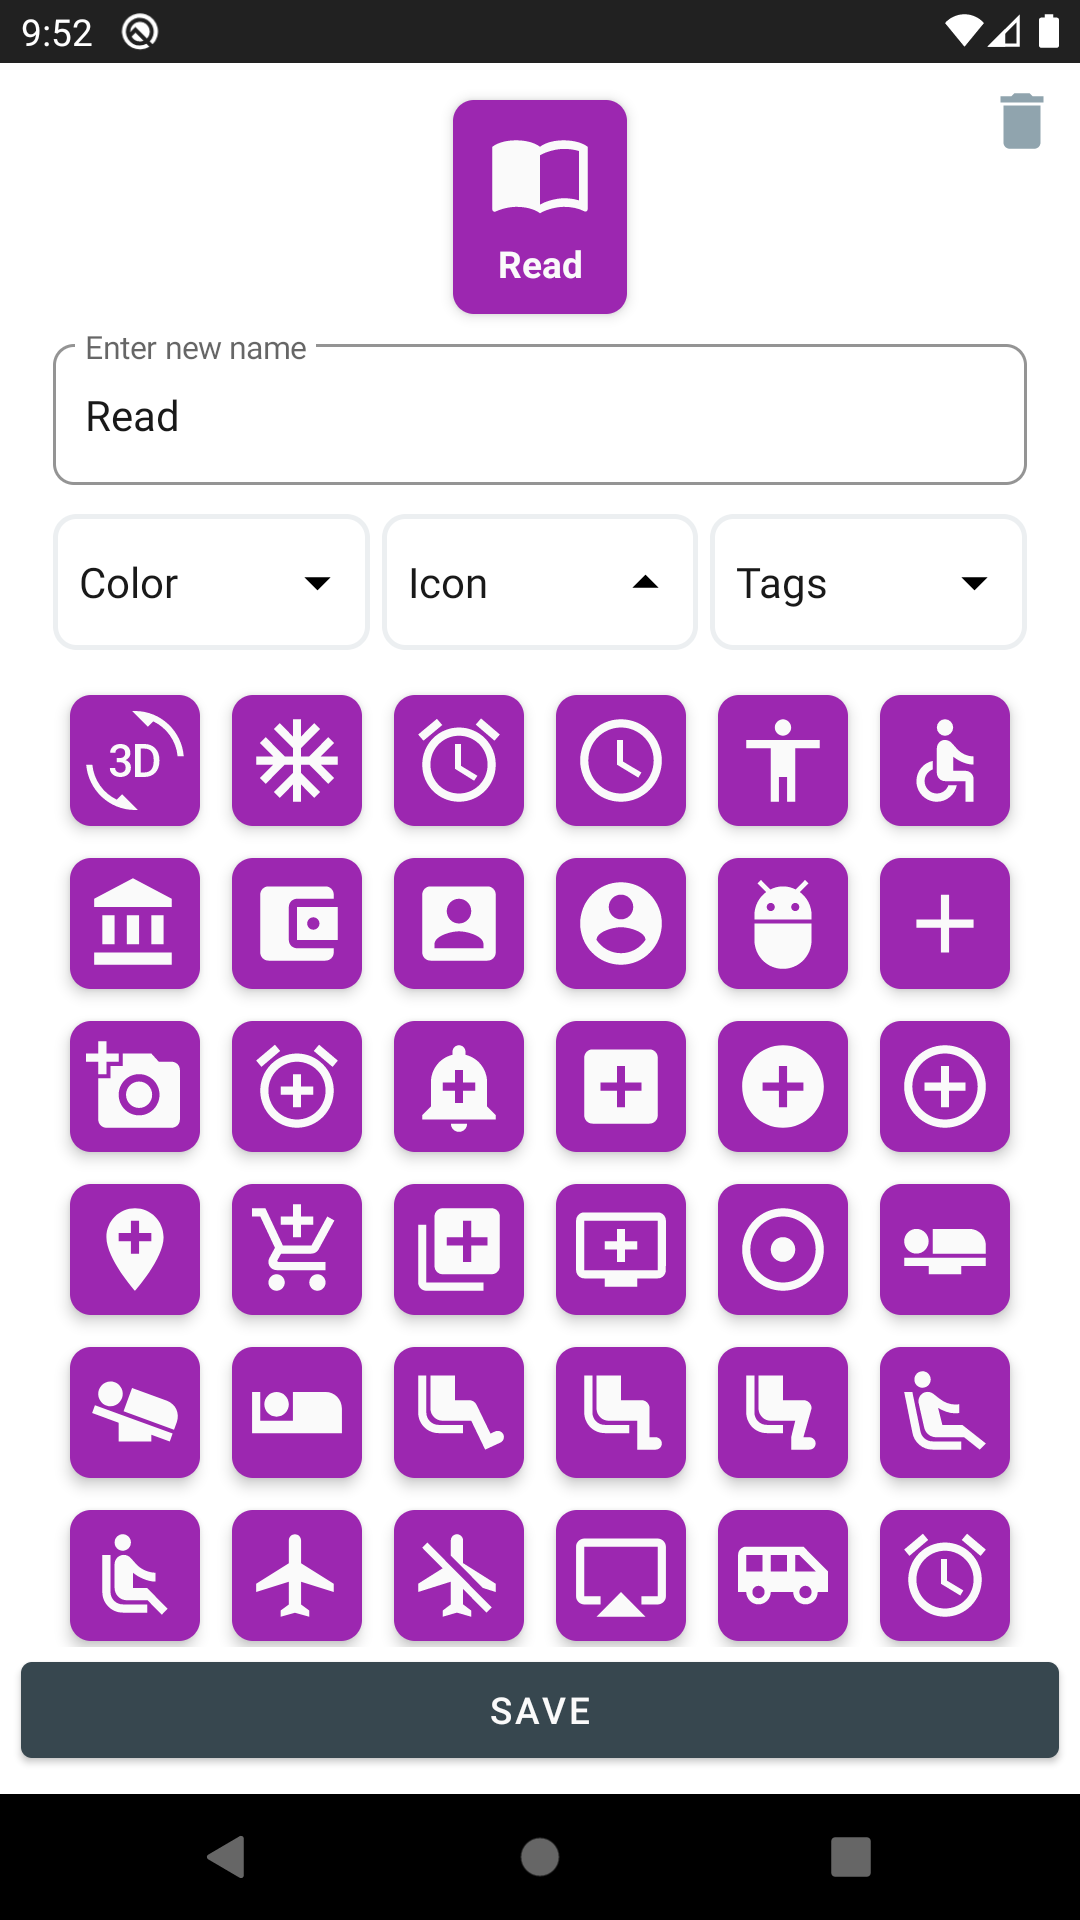
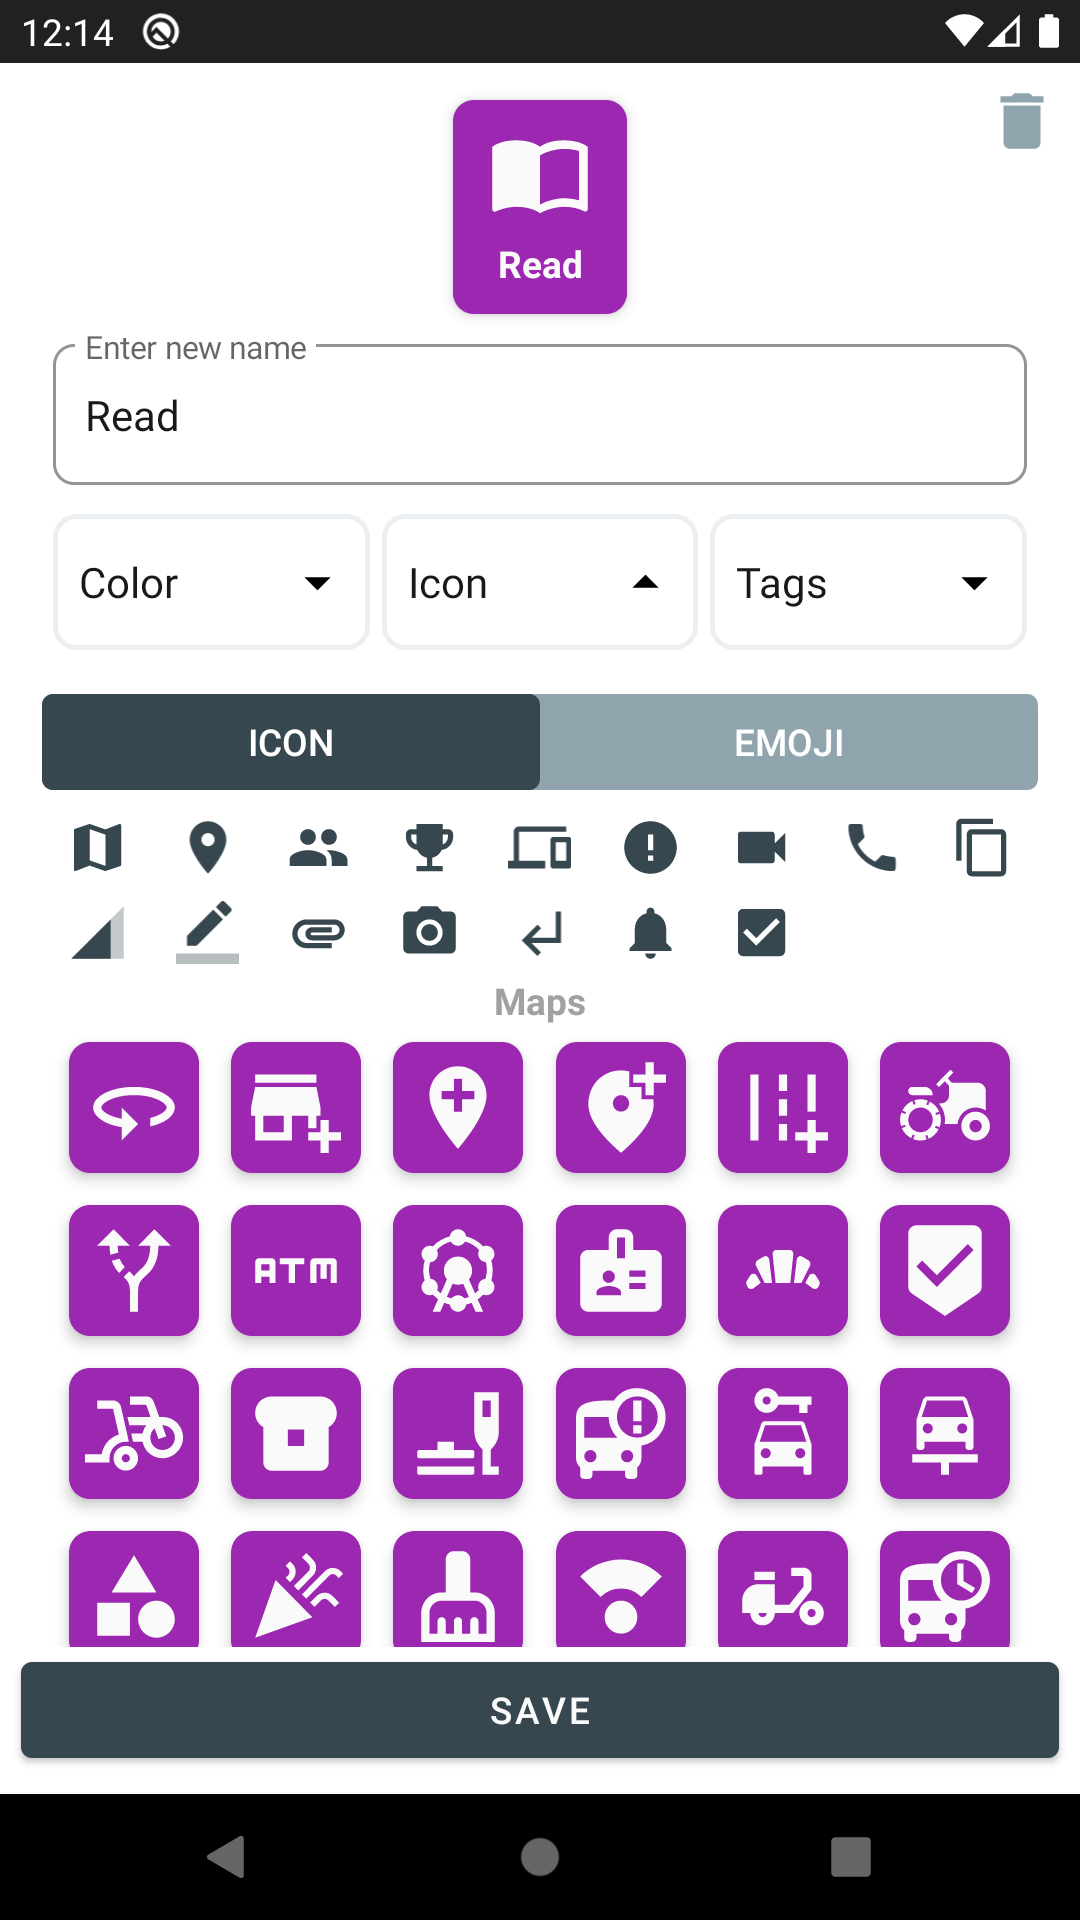
update screens

Changed region(s): [[0.0306, 0.3438, 0.9778, 0.875], [0.0306, 0.0, 0.1833, 0.0312]]

diff --git a/README.md b/README.md
@@ -15,6 +15,8 @@ Simple app that helps track how much time you spend on all the useless activitie
 [![change_record_type_thumb]][change_record_type]
 [![change_record_type_color_thumb]][change_record_type_color]
 [![change_record_type_icon_thumb]][change_record_type_icon]
+[![change_record_type_emoji_thumb]][change_record_type_emoji]
+[![change_record_type_emoji_selection_thumb]][change_record_type_emoji_selection]
 [![change_record_type_tag_thumb]][change_record_type_tag]
 <br>
 
@@ -145,6 +147,7 @@ Simple app that helps track how much time you spend on all the useless activitie
 - Dark mode
 - UI tests
 - CI with github actions
+- Emojis with EmojiCompat
 
 [change_record_thumb]: dev_files/screens/change_record_thumb.png
 [change_record]: dev_files/screens/change_record.png
@@ -161,6 +164,10 @@ Simple app that helps track how much time you spend on all the useless activitie
 [change_record_type_color]: dev_files/screens/change_record_type_color.png
 [change_record_type_icon_thumb]: dev_files/screens/change_record_type_icon_thumb.png
 [change_record_type_icon]: dev_files/screens/change_record_type_icon.png
+[change_record_type_emoji_thumb]: dev_files/screens/change_record_type_emoji_thumb.png
+[change_record_type_emoji]: dev_files/screens/change_record_type_emoji.png
+[change_record_type_emoji_selection_thumb]: dev_files/screens/change_record_type_emoji_selection_thumb.png
+[change_record_type_emoji_selection]: dev_files/screens/change_record_type_emoji_selection.png
 [change_record_type_tag_thumb]: dev_files/screens/change_record_type_tag_thumb.png
 [change_record_type_tag]: dev_files/screens/change_record_type_tag.png
 
